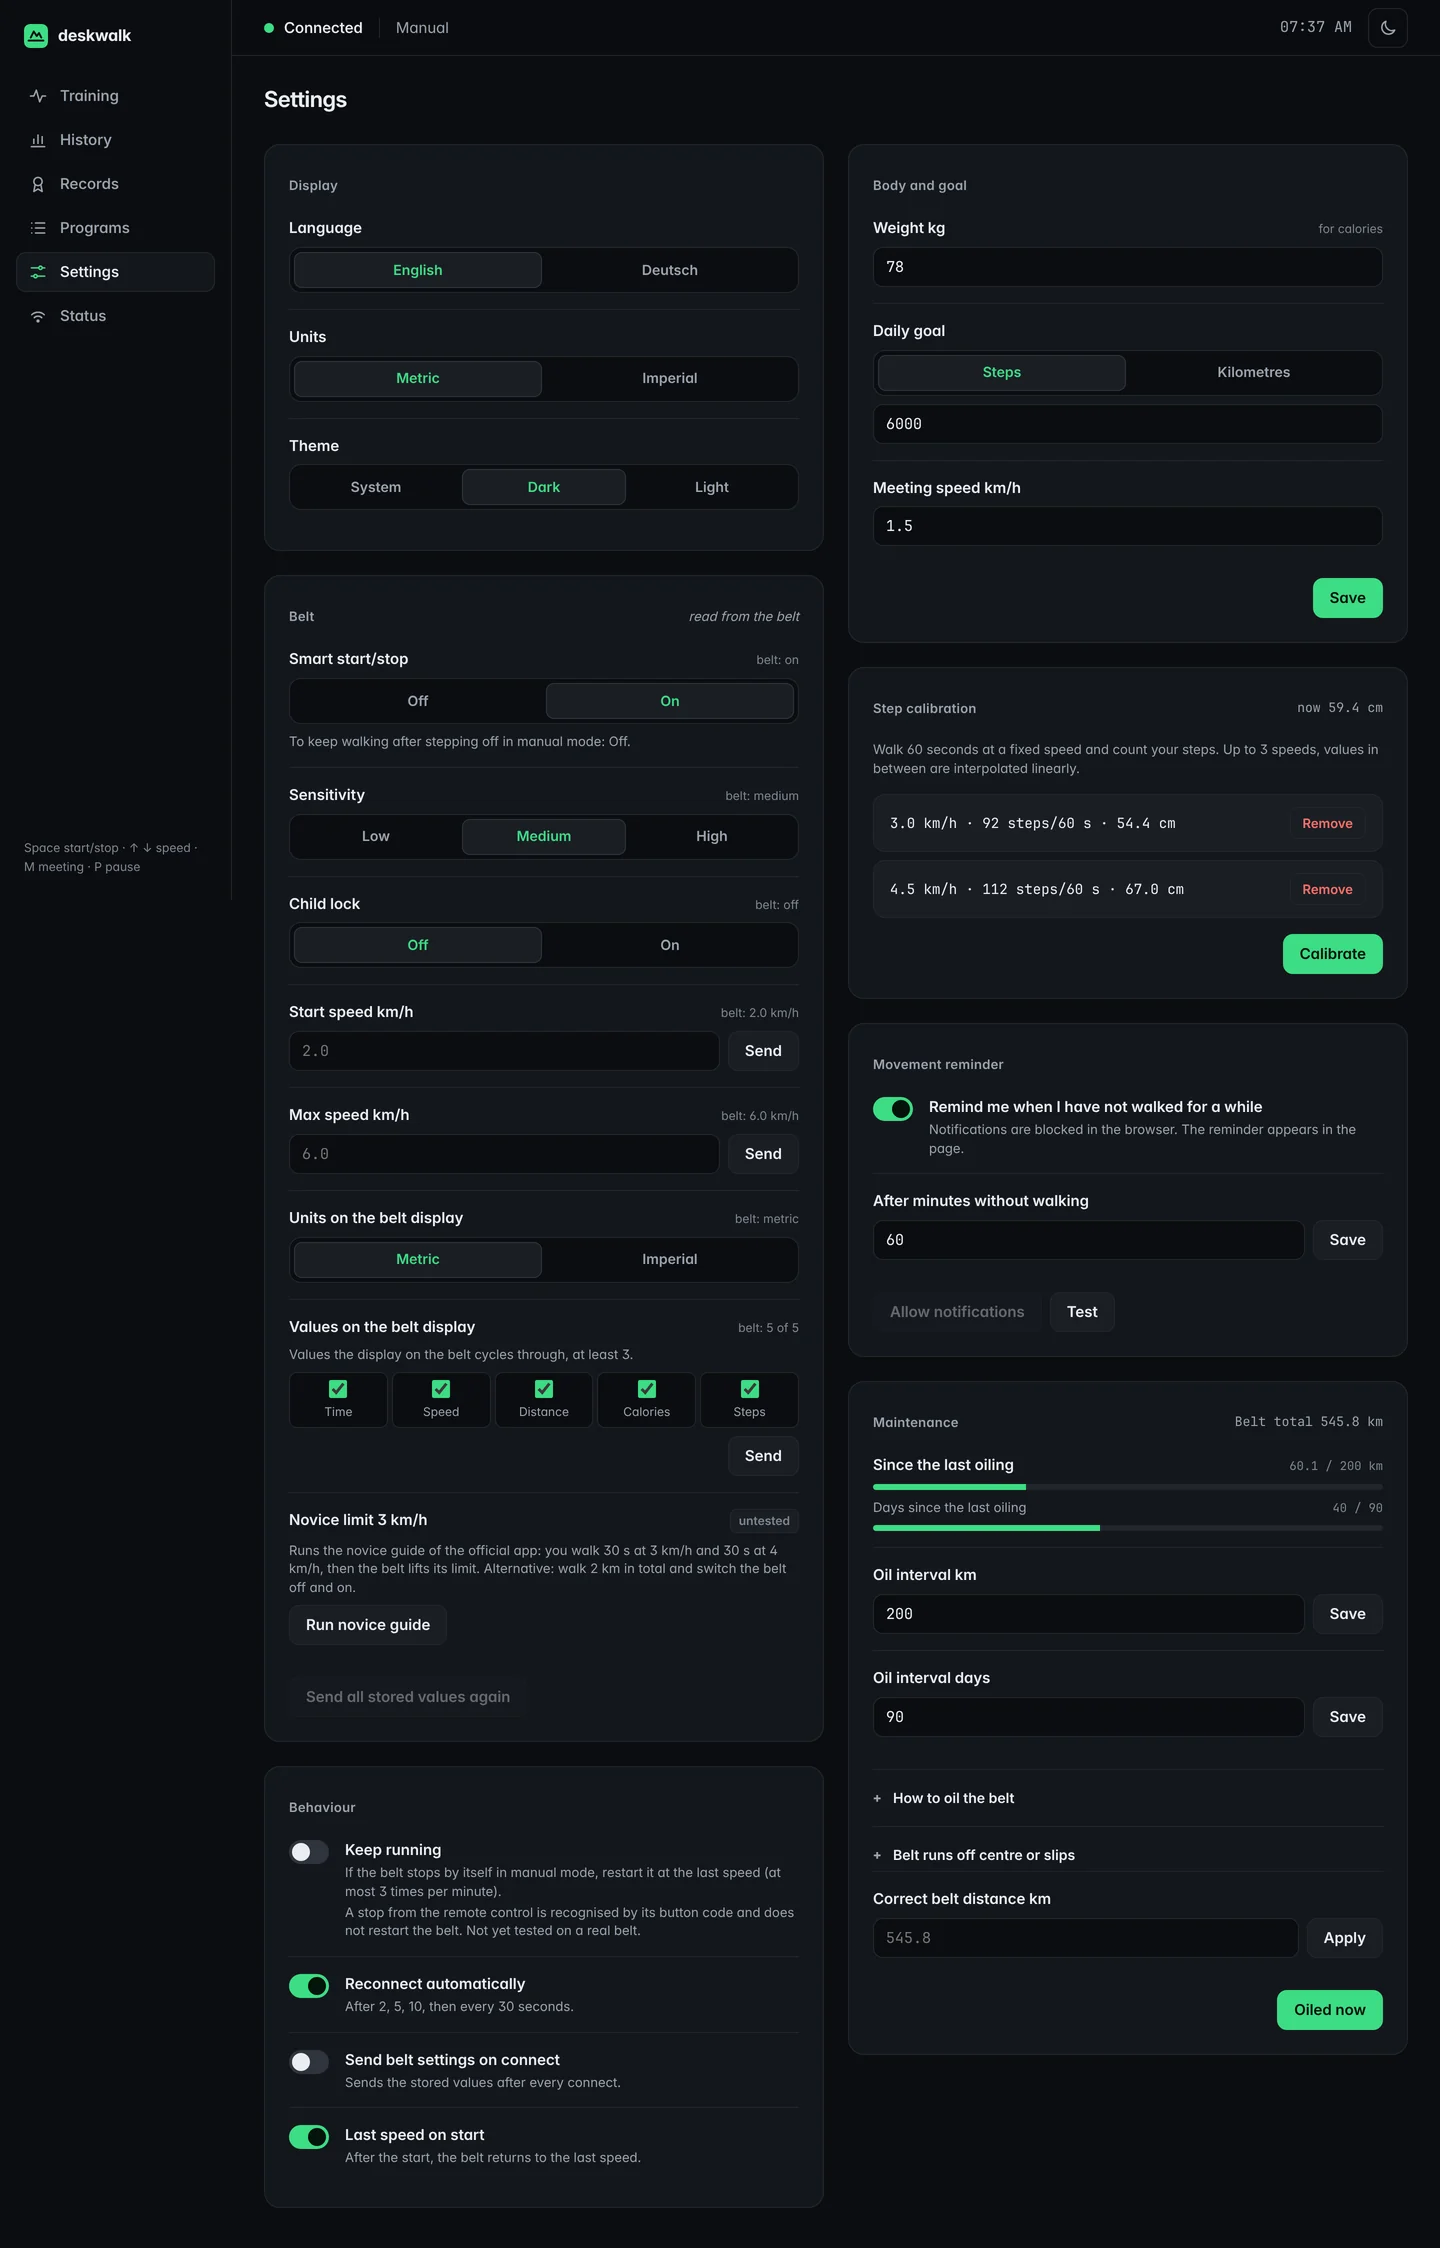
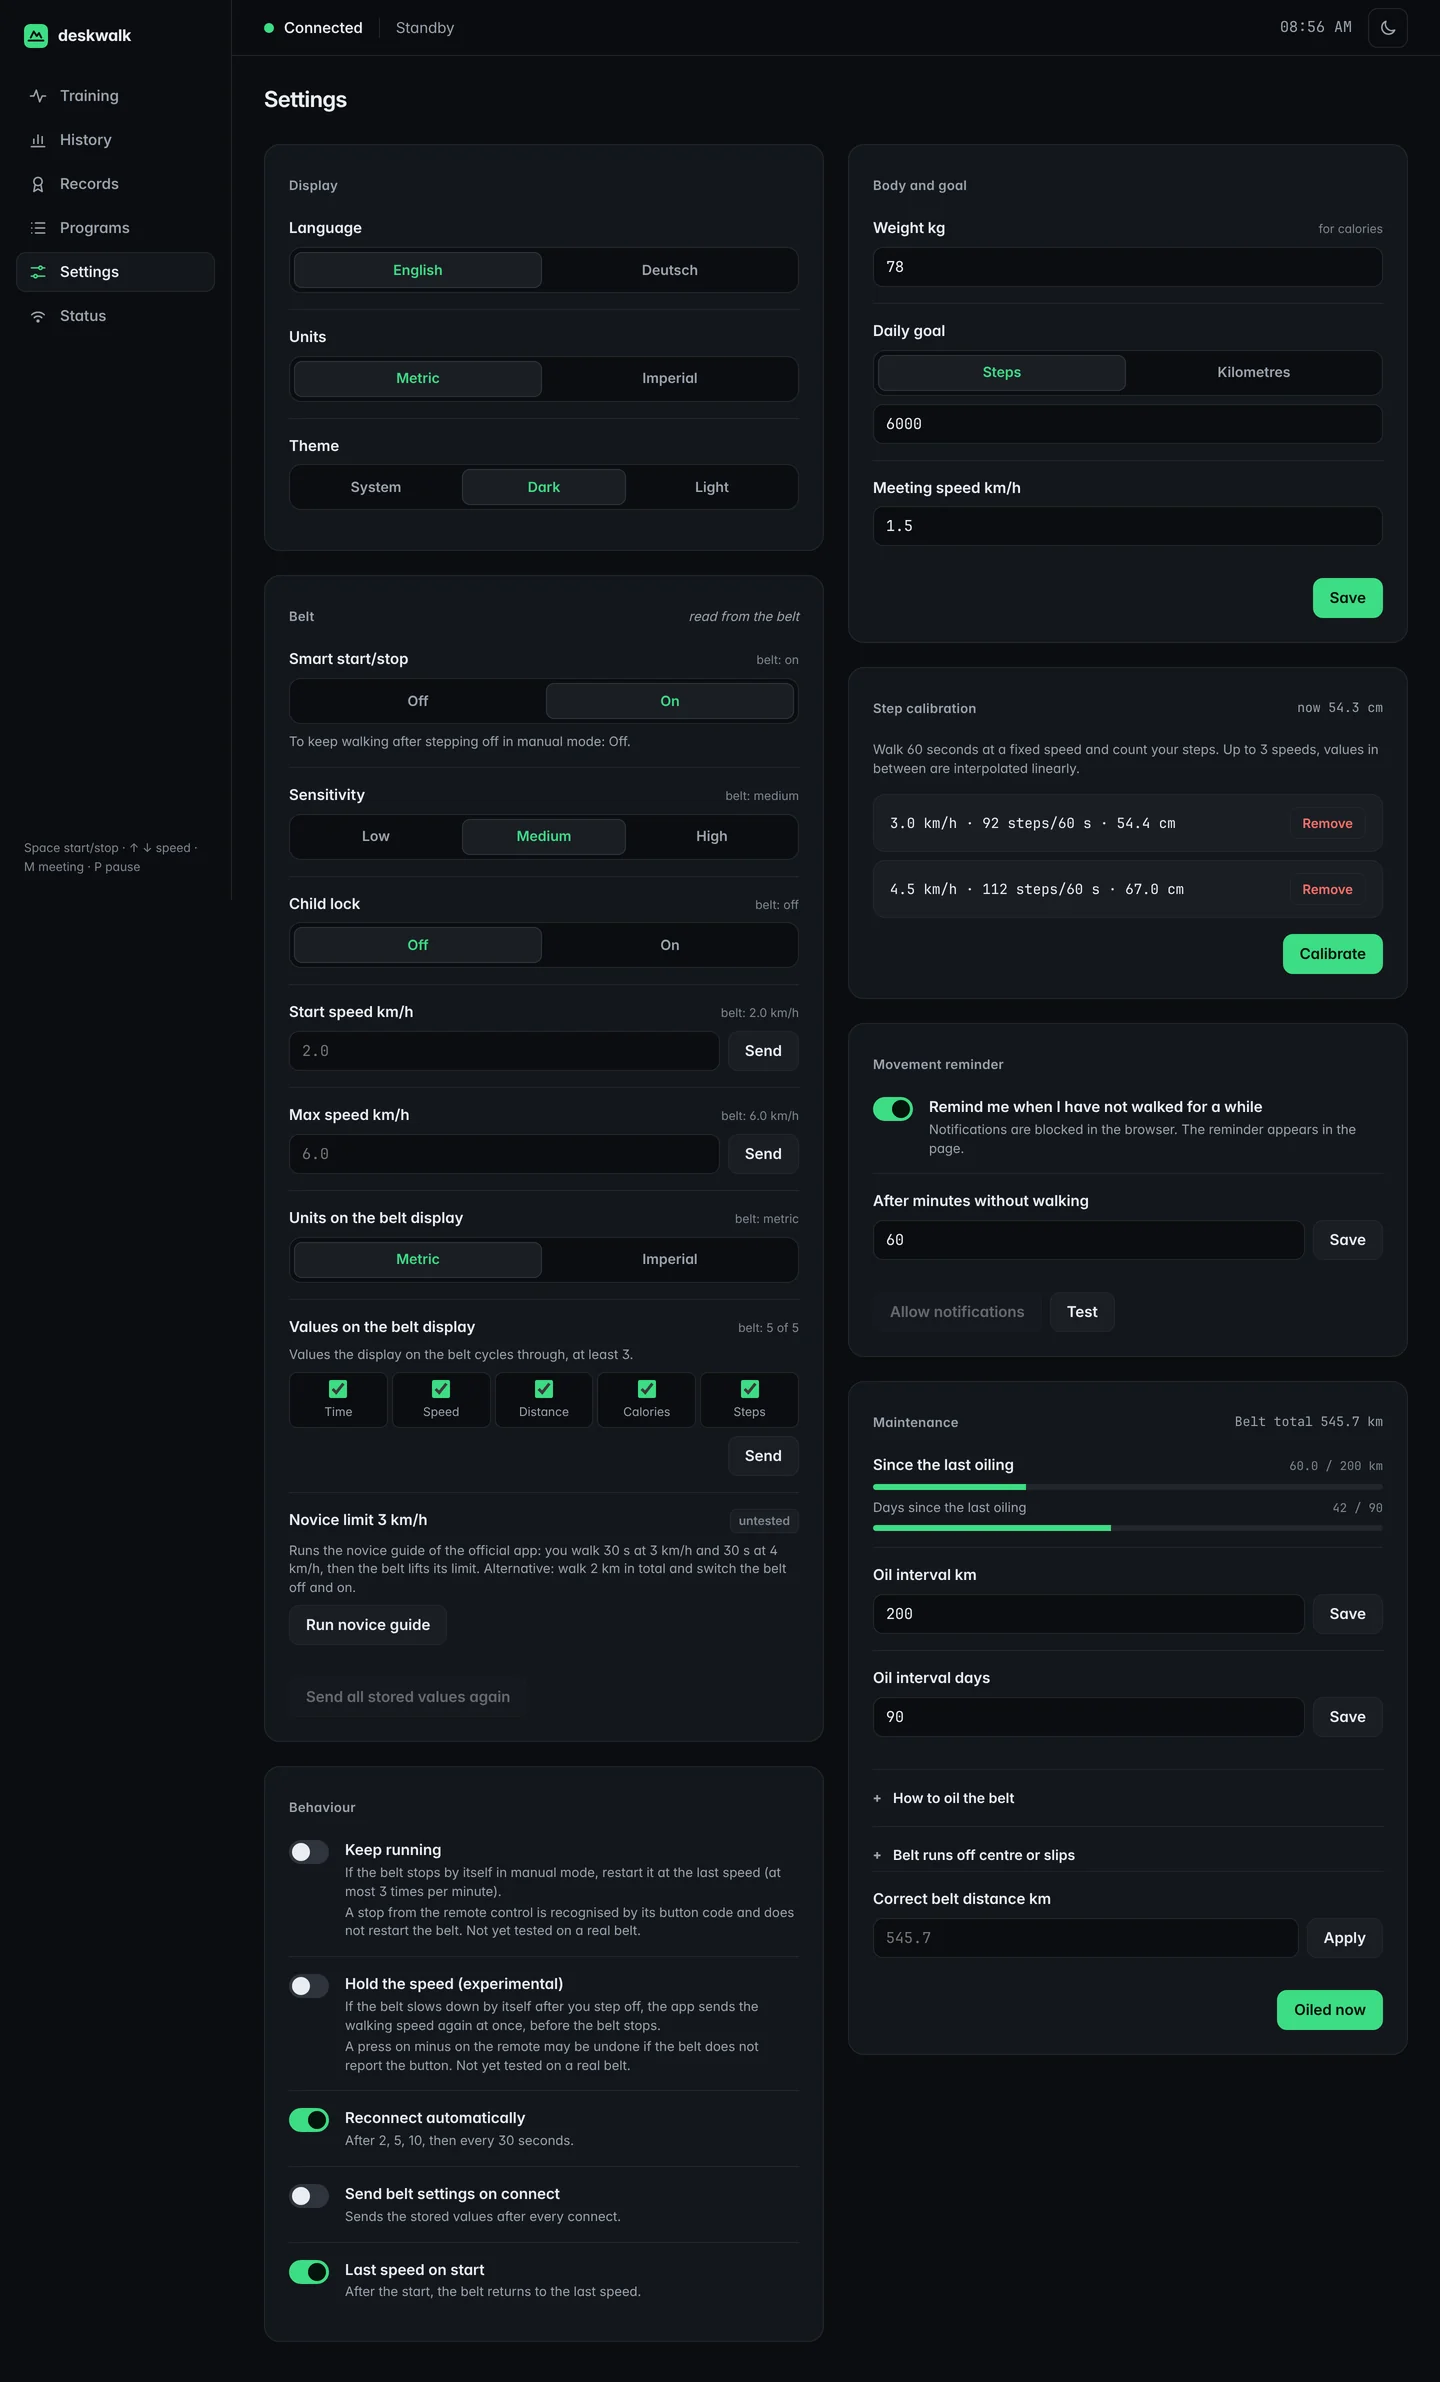
Release 1.3.0
- Version 1.3.0, changelog
- Settings screenshot with the new hold speed switch
- Social preview image for GitHub (docs/social-preview.png)

diff --git a/deskwalk/__init__.py b/deskwalk/__init__.py
@@ -12,4 +12,4 @@ Modules:
     logs       rotating log file plus the last lines in memory
 """
 
-__version__ = "1.2.0"
+__version__ = "1.3.0"

diff --git a/CHANGELOG.md b/CHANGELOG.md
@@ -1,6 +1,6 @@
 # Changelog
 
-## Unreleased
+## 1.3.0 (2026-10-26)
 
 - *Hold the speed* (experimental): sends the walking speed again as soon as the belt slows down by
   itself, for firmware that stops without load even with smart start/stop off.
